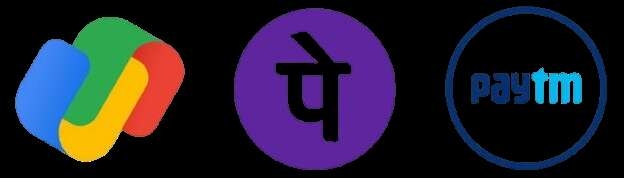
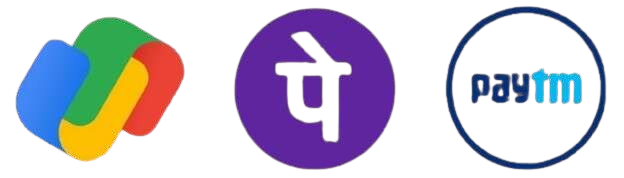
update:01 Jul, 2025

diff --git a/index.html b/index.html
@@ -43,6 +43,32 @@
     <a href="c76f733612cacf2af7381b6c7f0371b63429f1fc2eafcb33ed95d948fcbafe1d.html" id="side_close" class="w3-bar-item w3-button w3-hover-white">Card</a>
   </div>
 
+ <style>
+  .sitemap_admin {
+    margin: 20px;
+    padding: 20px; /* fixed typo */
+    text-decoration: none;
+    display: flex;
+    gap: 20px; /* spacing between links */
+    justify-content: center;
+  }
+
+  .sitemap_admin a {
+    text-decoration: none;
+    color: #0077cc;
+  }
+
+  .sitemap_admin a:hover {
+    text-decoration: underline;
+  }
+</style>
+
+<small class="sitemap_admin">
+  <a href="./sitemap.xml">Sitemap</a>
+  <a href="Admin">Admin</a>
+</small>
+
+
 <div class="add_side_pannel" id="add_container2">
   <button class="close_btn_side_pannel" onclick="this.parentElement.style.display='none';">×</button>
   <img src="#" id="add4">
@@ -301,7 +327,7 @@ At Asha Grill House, we don’t just build iron products—we build trust. With 
         </tr>
         <tr>
           <td>Payment Methods</td>
-          <td>Cash, Check, UPI, Netbanking <img class="payment_app_img" src="images/payment_app.png"> </td>
+          <td>Cash, Check, UPI, Netbanking <img class="payment_app_img" src="images/payment_app.jpg"> </td>
         </tr>
         <tr>
           <td>Services</td>

diff --git a/js/aa5006f12bf855428efa6acee55c51cd965c71af51626a0e0e3f1bf3c5ca3925.js b/js/aa5006f12bf855428efa6acee55c51cd965c71af51626a0e0e3f1bf3c5ca3925.js
@@ -117,8 +117,10 @@ export const imagePaths =  [
 
 
 export const specialBgImages = {
+  '05/06/2026': 'images/plant.jpg',
   '27/06/2025': 'images/Roth.jpg',
   '04/07/2025': 'images/Roth.jpg',
+  '07/07/2025': 'images/dhoni.jpg',
   '15/08/2025': 'images/independence.jpg',
 };
 
